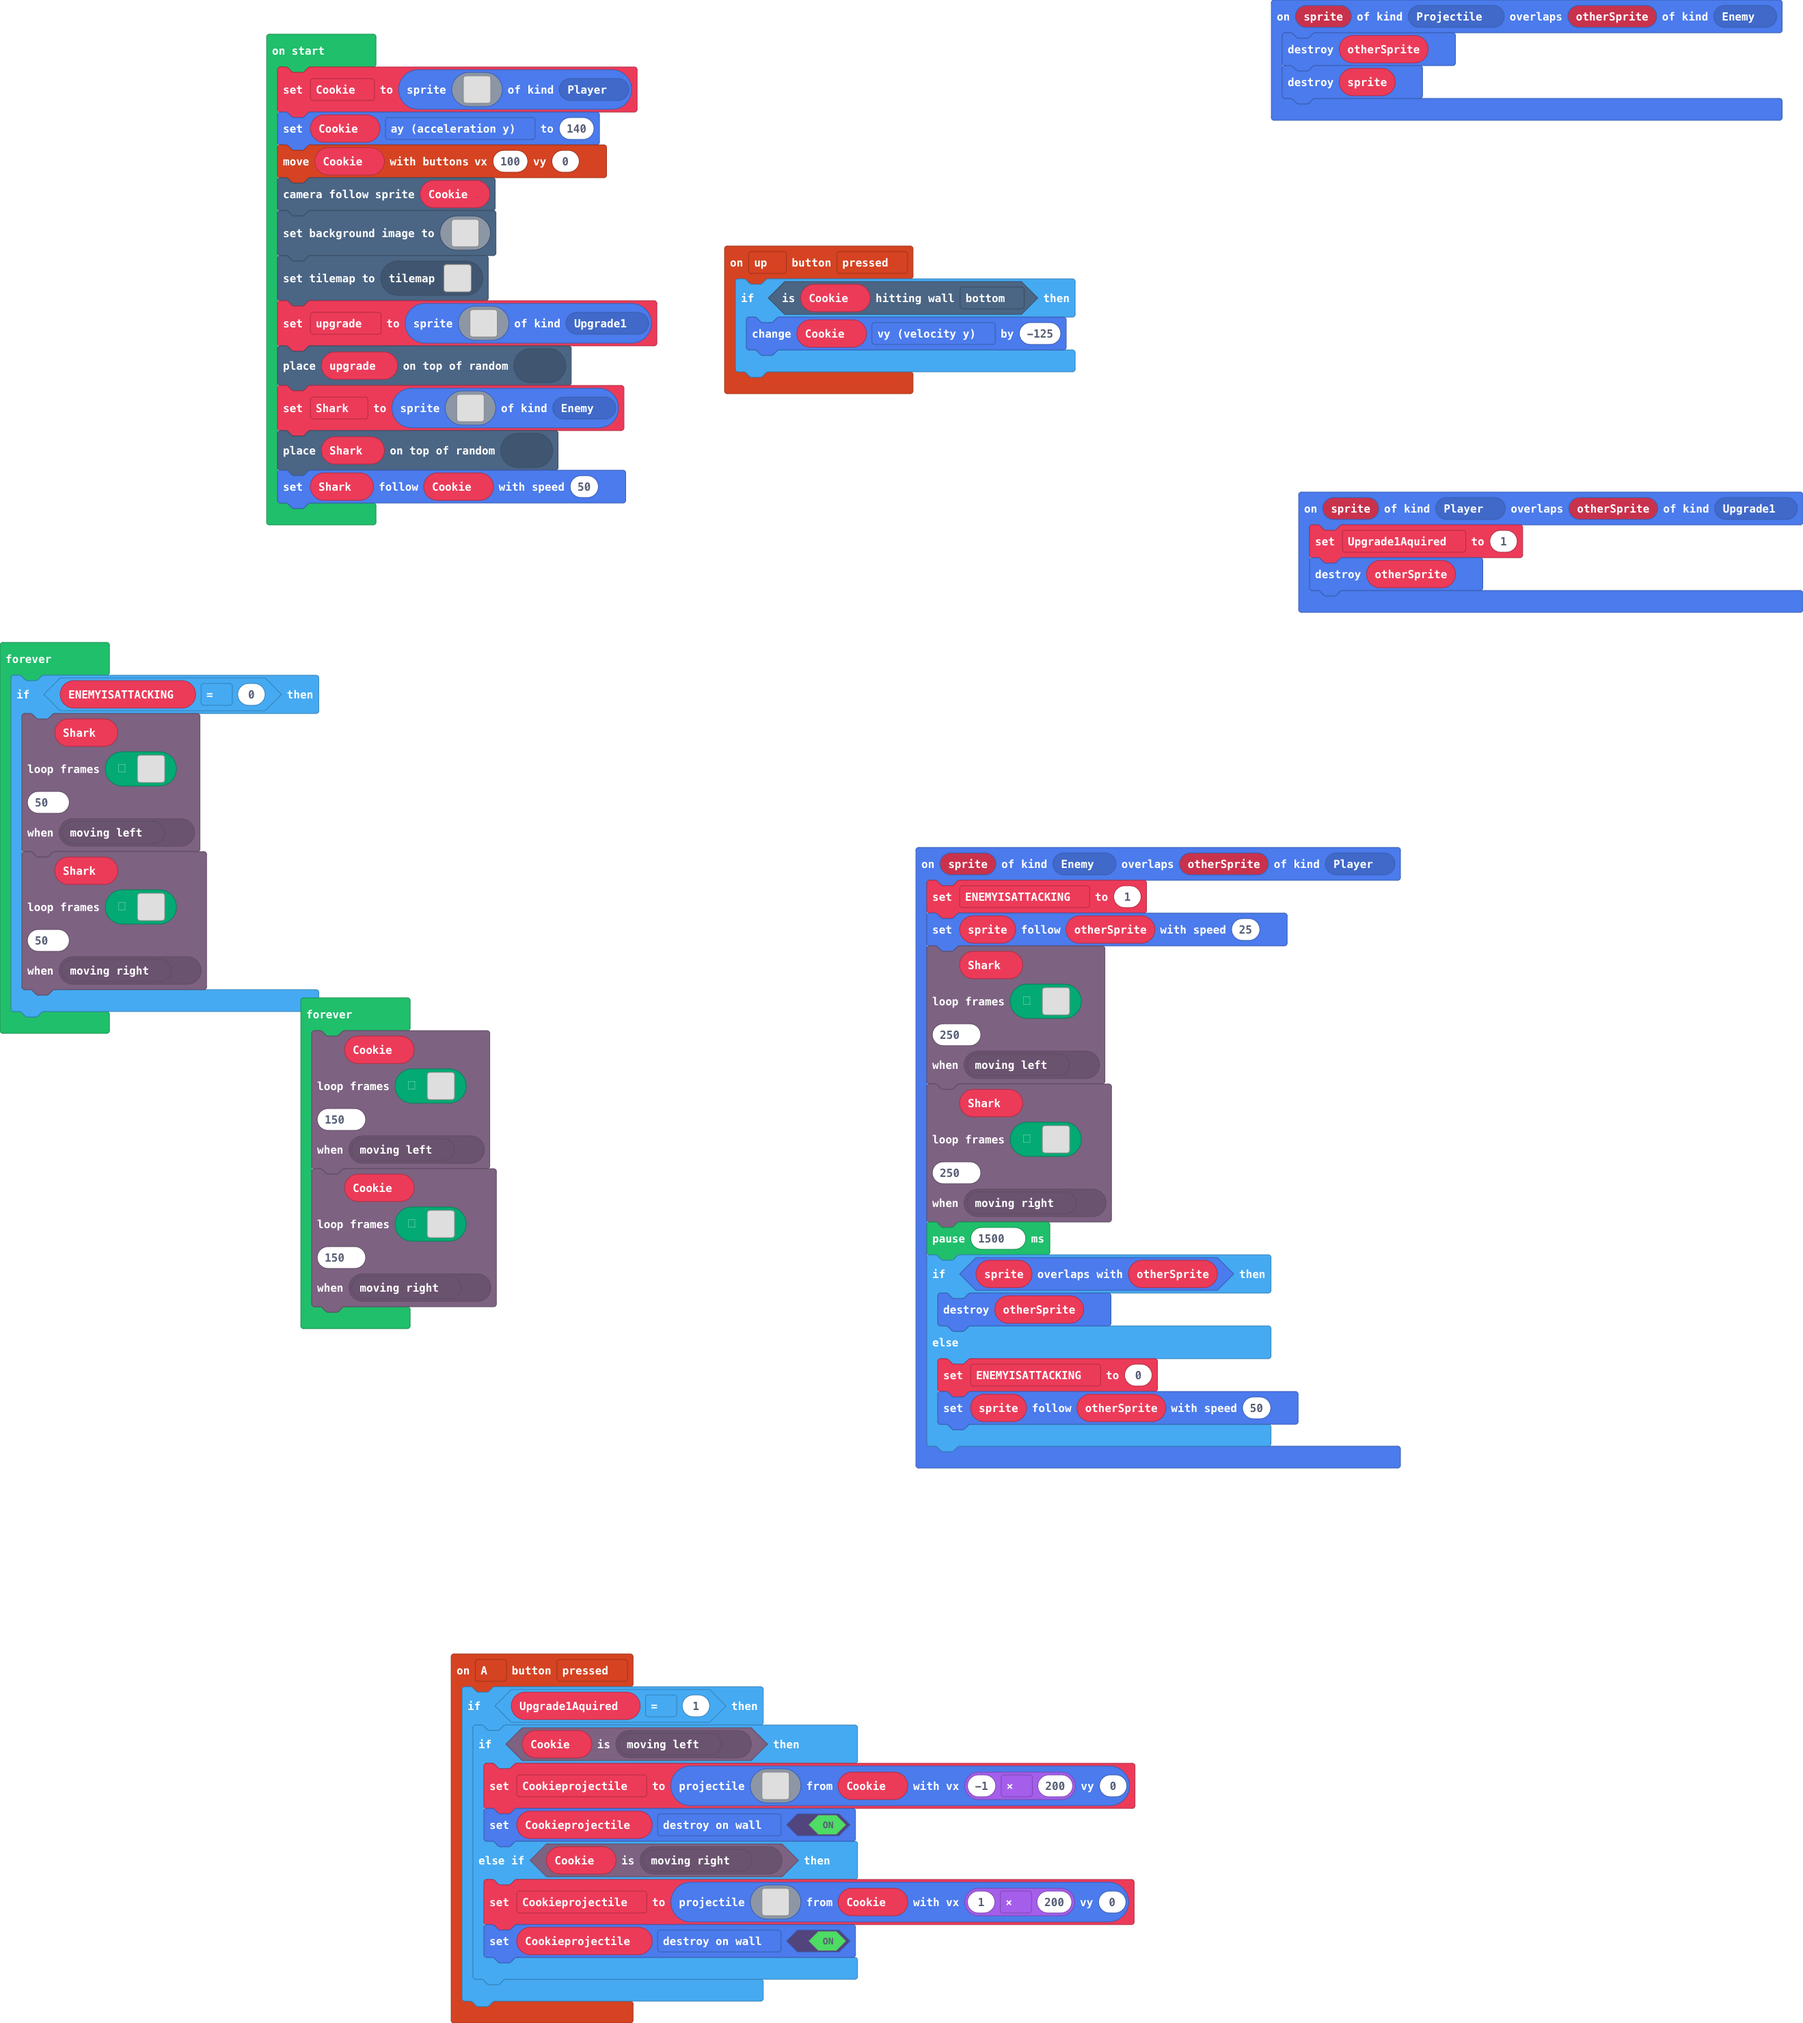
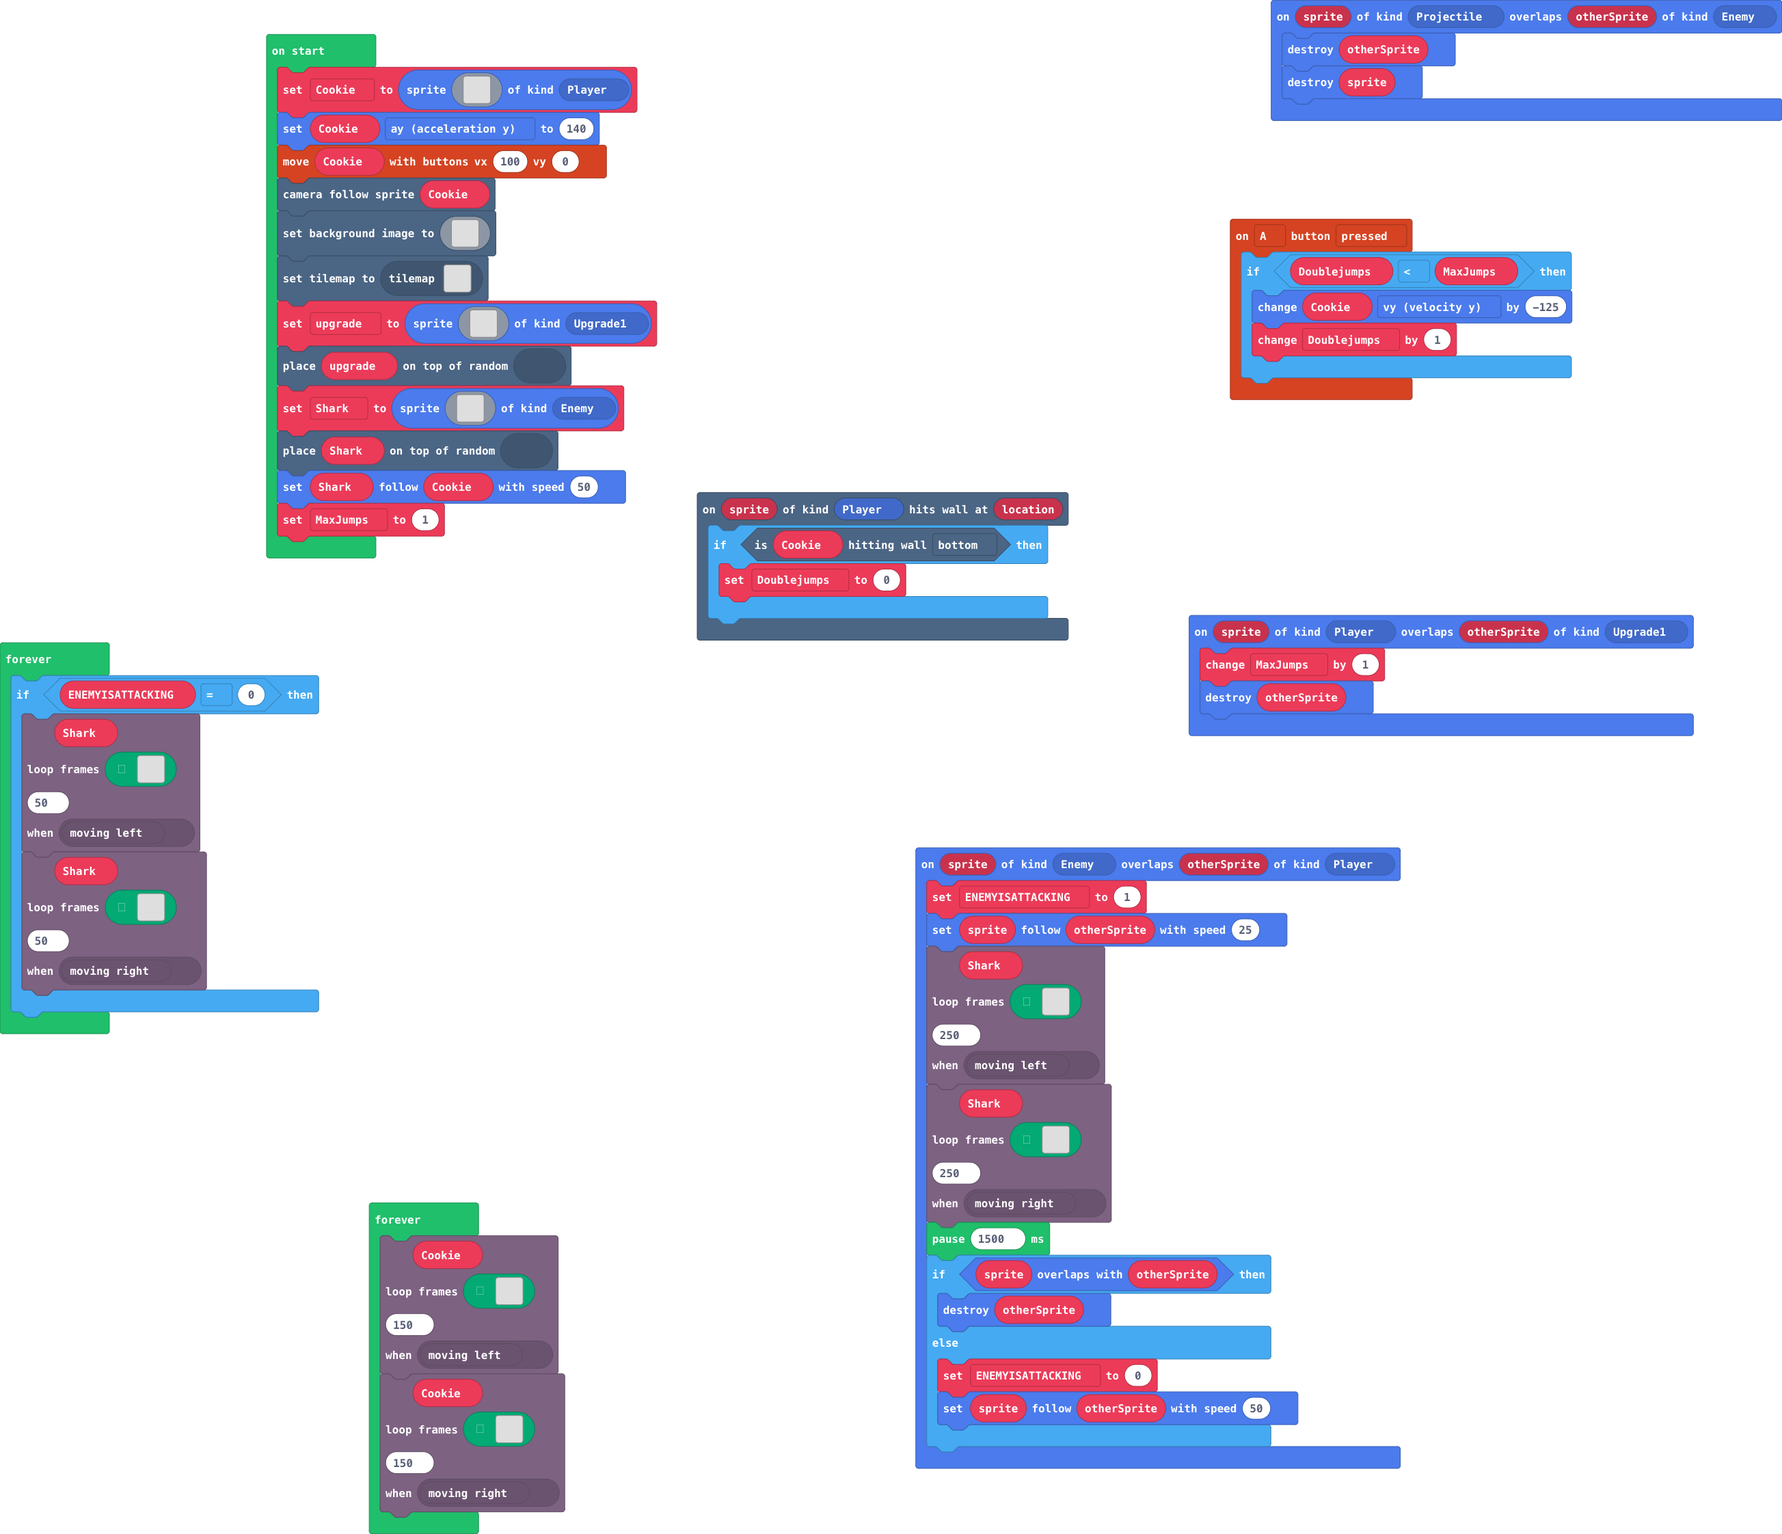
Update main.blocks, main.ts

diff --git a/main.ts b/main.ts
@@ -1,34 +1,19 @@
 namespace SpriteKind {
     export const Upgrade1 = SpriteKind.create()
 }
-controller.up.onEvent(ControllerButtonEvent.Pressed, function () {
+scene.onHitWall(SpriteKind.Player, function (sprite, location) {
     if (Cookie.isHittingTile(CollisionDirection.Bottom)) {
-        Cookie.vy += -125
+        Doublejumps = 0
     }
 })
 controller.A.onEvent(ControllerButtonEvent.Pressed, function () {
-    if (Upgrade1Aquired == 1) {
-        if (characterAnimations.matchesRule(Cookie, characterAnimations.rule(Predicate.MovingLeft))) {
-            Cookieprojectile = sprites.createProjectileFromSprite(img`
-                . e e e e e 
-                e 4 4 4 4 e 
-                e 4 4 4 4 e 
-                . e e e e e 
-                `, Cookie, -1 * 200, 0)
-            Cookieprojectile.setFlag(SpriteFlag.DestroyOnWall, true)
-        } else if (characterAnimations.matchesRule(Cookie, characterAnimations.rule(Predicate.MovingRight))) {
-            Cookieprojectile = sprites.createProjectileFromSprite(img`
-                e e e e e . 
-                e 4 4 4 4 e 
-                e 4 4 4 4 e 
-                e e e e e . 
-                `, Cookie, 1 * 200, 0)
-            Cookieprojectile.setFlag(SpriteFlag.DestroyOnWall, true)
-        }
+    if (Doublejumps < MaxJumps) {
+        Cookie.vy += -125
+        Doublejumps += 1
     }
 })
 sprites.onOverlap(SpriteKind.Player, SpriteKind.Upgrade1, function (sprite, otherSprite) {
-    Upgrade1Aquired = 1
+    MaxJumps += 1
     sprites.destroy(otherSprite)
 })
 sprites.onOverlap(SpriteKind.Enemy, SpriteKind.Player, function (sprite, otherSprite) {
@@ -297,8 +282,8 @@ sprites.onOverlap(SpriteKind.Projectile, SpriteKind.Enemy, function (sprite, oth
     sprites.destroy(sprite)
 })
 let ENEMYISATTACKING = 0
-let Cookieprojectile: Sprite = null
-let Upgrade1Aquired = 0
+let Doublejumps = 0
+let MaxJumps = 0
 let Shark: Sprite = null
 let Cookie: Sprite = null
 Cookie = sprites.create(img`
@@ -446,20 +431,20 @@ scene.setBackgroundImage(img`
 tiles.setCurrentTilemap(tilemap`level2`)
 let upgrade = sprites.create(img`
     . . . . . . . . . . . . . . . . 
-    . . . . . . . . . . . . . . . . 
-    . . . . . . . . . . . . . . . . 
-    e e e e e e e e e e e e e e . . 
-    e 4 4 4 4 4 4 4 4 4 4 1 1 1 e . 
-    e 4 4 4 4 4 4 4 4 4 4 4 4 4 1 e 
-    e 4 4 4 4 4 4 4 4 4 4 4 4 4 4 e 
-    e 4 4 4 4 4 4 4 4 4 4 4 4 4 4 e 
-    e 4 4 4 4 4 4 4 4 4 4 4 4 4 4 e 
-    e 4 4 4 4 4 4 4 4 4 4 4 4 4 4 e 
-    e 4 4 4 4 4 4 4 4 4 4 4 4 4 4 e 
-    e 4 4 4 4 4 4 4 4 4 4 4 4 4 e . 
-    e e e e e e e e e e e e e e . . 
-    . . . . . . . . . . . . . . . . 
-    . . . . . . . . . . . . . . . . 
+    . . . . . e e e e e e . . . . . 
+    . . . . e 4 4 4 4 4 4 e . . . . 
+    . . . e 4 4 4 e e 4 4 4 e . . . 
+    . . . e 4 4 e e e e 4 4 e . . . 
+    . . . e 4 e e e e e e 4 e . . . 
+    . . . e 4 4 4 e e 4 4 4 e . . . 
+    . . . e 4 4 4 e e 4 4 4 e . . . 
+    . . . e 4 4 4 e e 4 4 4 e . . . 
+    . . . e 4 4 4 e e 4 4 4 e . . . 
+    . . . e 4 4 4 e e 4 4 4 e . . . 
+    . . . e 4 4 4 e e 4 4 4 e . . . 
+    . . . e 4 4 4 e e 4 4 4 e . . . 
+    . . . . e 4 4 4 4 4 4 e . . . . 
+    . . . . . e e e e e e . . . . . 
     . . . . . . . . . . . . . . . . 
     `, SpriteKind.Upgrade1)
 tiles.placeOnRandomTile(upgrade, assets.tile`myTile0`)
@@ -483,6 +468,7 @@ Shark = sprites.create(img`
     `, SpriteKind.Enemy)
 tiles.placeOnRandomTile(Shark, assets.tile`myTile`)
 Shark.follow(Cookie, 50)
+MaxJumps = 1
 forever(function () {
     if (ENEMYISATTACKING == 0) {
         characterAnimations.loopFrames(
